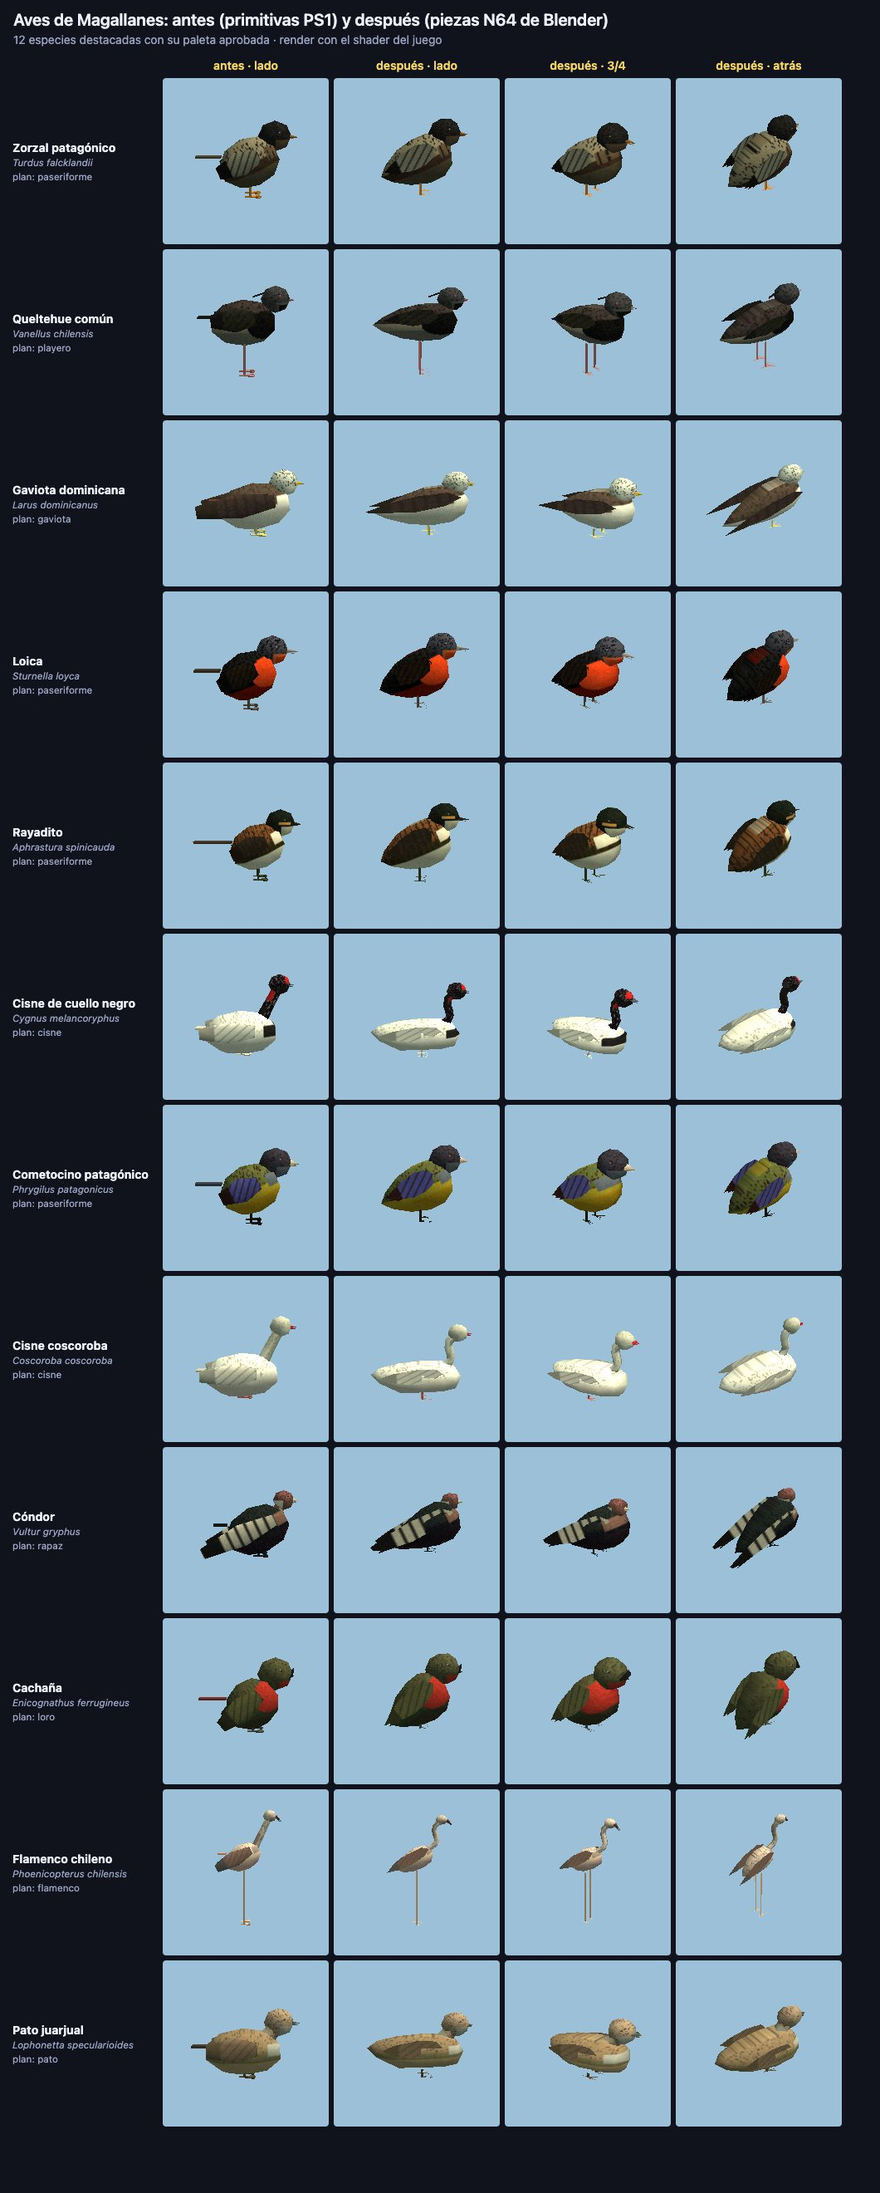
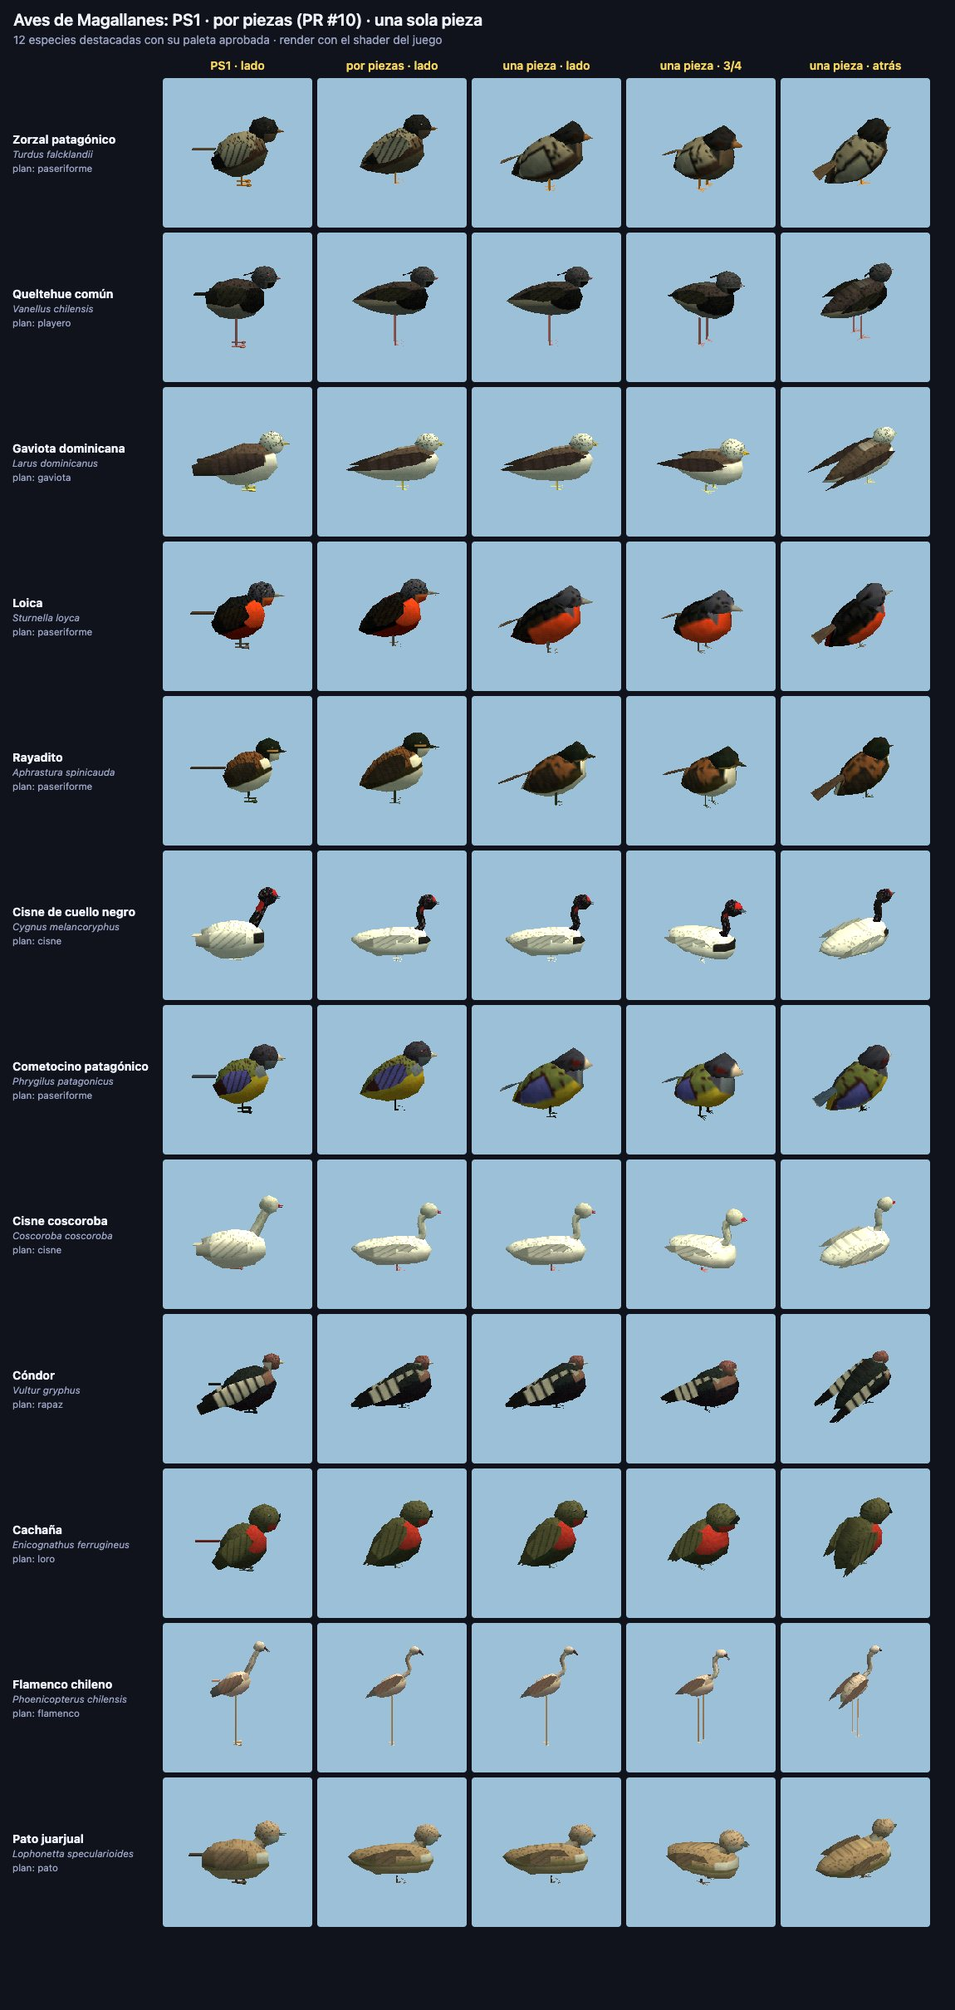
Aves de una sola pieza: prototipo para paseriforme y cola alta
- js/bird1.js: una malla continua por especie (loft de 6 lados cola → cuerpo → cuello → cabeza → pico, 168 tris) con una textura de 64×32 pintada encima (ojo, máscara, garganta, ala plegada, patrones y acentos)
- Misma interfaz que el ave por piezas: cabeza, cola e inflado deforman solo sus vértices (mezcla en el cuello); alas de vuelo visibles solo al aletear; contorno de hover sobre la misma malla
- bird.js lo usa para paseriforme y cola_alta (setOnePiece para comparar); el resto de los planes sigue por piezas
- Registro: columna 'una pieza' junto a PS1 y por piezas

diff --git a/js/bird1.js b/js/bird1.js
@@ -1,0 +1,262 @@
+// Ave de una sola pieza (estilo N64, como Poroto): una malla continua por especie, de la punta de la cola
+// al pico (cola → cuerpo → cuello → cabeza → pico), con secciones de 6 lados y UNA textura pintada encima
+// (ojo, máscara, garganta, ala plegada, patrones). Ver blender/NOTAS.md, "Aves: de ensamble a una sola pieza".
+//
+// Mantiene la interfaz de buildBird (js/bird.js) para que aviary.js no cambie: head, tail y torso siguen
+// siendo objetos que el comportamiento anima, pero en vez de mover esferas deforman los vértices de su zona
+// (con mezcla en el cuello). Las alas de vuelo solo se ven al aletear; quieta, el ala plegada está pintada.
+/* global THREE */
+import { mat, makeTex, makeVary, mulberry32, texPlain, steady } from './ps1.js';
+
+const TAU = Math.PI * 2;
+const SIDES = 6;
+const plain = texPlain();
+
+// Perfil del cuerpo a lo largo de su eje (s = −1.25 cola … 0.85 pecho alto): fracción del radio.
+const BODY_PROFILE = [[-1.25, 0.24], [-1.0, 0.48], [-0.55, 0.86], [0.0, 1.0], [0.45, 0.95], [0.82, 0.72]];
+
+/** Anillo de SIDES vértices perpendicular a `axis` (en el plano x-y), alto h y ancho w. k=0 = vientre. */
+function ring(center, axis, w, h) {
+  const z = new THREE.Vector3(0, 0, 1);
+  const up = new THREE.Vector3().crossVectors(z, axis).normalize();
+  const pts = [];
+  for (let k = 0; k <= SIDES; k++) { // el último repite el primero (costura de la textura)
+    const a = TAU * k / SIDES;
+    pts.push(center.clone().addScaledVector(up, -Math.cos(a) * h).addScaledVector(z, Math.sin(a) * w));
+  }
+  return pts;
+}
+
+/**
+ * Esqueleto de anillos de la especie en el espacio de bodyPivot (mismo espacio que el ave por piezas).
+ * Devuelve [{c, w, h, zone, wHead, wTail}] + datos de pivotes.
+ */
+function skeleton(pl, f, hs, headBase, bl, br) {
+  const B = pl.body, t = pl.tilt;
+  const C = new THREE.Vector3(0.05, 0.72, 0);
+  const d = new THREE.Vector3(Math.cos(t), Math.sin(t), 0);
+  const R = [];
+  // cola (plana, se abre hacia la punta): pivote donde estaba el grupo de la cola
+  const tailPivot = new THREE.Vector3(...(pl.tailPos || [-1.0 * B[0] / 1.15, 0.9]), 0);
+  const tr = pl.tail, tdir = new THREE.Vector3(-Math.cos(tr), -Math.sin(tr), 0);
+  const L = 1.05 * f.tail;
+  const tw = pl === undefined ? 1 : 1;
+  R.push({ c: tailPivot.clone().addScaledVector(tdir, L), w: 0.34 * tw, h: 0.025, zone: 'cola', wTail: 1, end: true });
+  R.push({ c: tailPivot.clone().addScaledVector(tdir, L * 0.5), w: 0.27 * tw, h: 0.04, zone: 'cola', wTail: 1 });
+  R.push({ c: tailPivot.clone().addScaledVector(tdir, 0.05), w: 0.2, h: 0.08, zone: 'cola', wTail: 0.7 });
+  // cuerpo
+  for (const [s, k] of BODY_PROFILE) {
+    R.push({ c: C.clone().addScaledVector(d, s * B[0]), w: k * B[2], h: k * B[1], zone: 'cuerpo' });
+  }
+  // cuello (mezcla) y cabeza: la cabeza mira al frente (+x)
+  const neckFrom = C.clone().addScaledVector(d, 0.85 * B[0]);
+  const nl = pl.neckLen ?? 0;
+  const nNeck = nl > 0.3 ? 3 : 1;
+  for (let i = 1; i <= nNeck; i++) {
+    const k = i / (nNeck + 1);
+    R.push({ c: neckFrom.clone().lerp(headBase, k), w: hs * (0.72 - 0.1 * (nNeck > 1 ? 1 - k : 0)), h: hs * 0.78, zone: 'cuello', wHead: 0.25 + 0.5 * k });
+  }
+  const hx = new THREE.Vector3(1, 0, 0);
+  R.push({ c: headBase.clone().addScaledVector(hx, -0.6 * hs).add(new THREE.Vector3(0, 0.02, 0)), w: hs * 0.82, h: hs * 0.86, zone: 'cabeza', wHead: 1 });
+  R.push({ c: headBase.clone(), w: hs * 0.95, h: hs * 1.0, zone: 'cabeza', wHead: 1, eye: true });
+  R.push({ c: headBase.clone().add(new THREE.Vector3(0.52 * hs, -0.03, 0)), w: hs * 0.72, h: hs * 0.74, zone: 'cabeza', wHead: 1 });
+  // pico: base y punta (la punta es un vértice)
+  const beakBase = headBase.clone().add(new THREE.Vector3(0.88 * hs, -0.06, 0));
+  R.push({ c: beakBase, w: br * 1.05, h: br * 1.15, zone: 'pico', wHead: 1 });
+  const tip = beakBase.clone().add(new THREE.Vector3(bl, -0.04 - (pl.bentBill ? bl * 0.6 : 0), 0));
+  return { R, tip, tailPivot, C, beakBase };
+}
+
+// ---------- textura de la especie: u = a lo largo del ave (cola → pico), v = alrededor (vientre → lomo → vientre) ----------
+function paintSpecies(sp, P, layout) {
+  const R = mulberry32(2000 + sp.id);
+  const vary = makeVary(R);
+  const pat = sp.palette?.pattern || {};
+  const aw = sp.palette?.accentWhere, acc = P.accent;
+  const W = 64, H = 32;
+  const { uTailEnd, uBodyEnd, uNeckEnd, uEye, uBeak, uHeadFront } = layout;
+  const patt = (zone, c, x, y) => {
+    const p = pat[zone];
+    if (p === 'barred') return (x % 3 === 0) ? P.back_dark : vary(c, 9);
+    if (p === 'streaked') return (y % 4 === 0 && R() < 0.8) ? P.back_dark : vary(c, 9);
+    if (p === 'spotted') return (R() < 0.07) ? [30, 26, 28] : vary(c, 8);
+    return vary(c, 7);
+  };
+  return makeTex(W, H, (x, yy) => {
+    const u = (x + 0.5) / W, v = (yy + 0.5) / H;
+    const side = Math.abs(v - 0.5) * 2; // 0 = lomo, 1 = vientre
+    const up = 1 - side;                 // 1 = lomo
+    if (u > uBeak) return P.beak;
+    if (u < uTailEnd) { // cola: lomo con color de cola; abajo más oscuro
+      if (aw === 'subcaudales' && acc && side > 0.6) return vary(acc, 6);
+      const c = patt('tail', aw === 'ala y cola' && acc ? acc : P.tail, x, yy);
+      return side > 0.6 ? c.map(k => k * 0.8) : c;
+    }
+    if (u > uNeckEnd) { // cabeza
+      const ex = (u - uEye) * W, ey = (Math.min(Math.abs(v - 0.25), Math.abs(v - 0.75))) * H;
+      if (Math.abs(ex) < 1.2 && ey < 1.3) return ex > 0.2 && Math.abs(v - 0.25) < 0.5 / H + 0.02 ? [210, 210, 210] : P.eye;
+      if (acc) {
+        if (aw === 'bigote' && ey > 1.5 && ey < 3 && side > 0.4 && u > uEye - 0.04) return vary(acc, 5);
+        if (aw === 'frente' && up > 0.7 && u > uHeadFront - 0.02) return vary(acc, 4);
+        if (aw === 'gorguera' && side > 0.7) return (x + yy) % 3 === 0 ? [220, 230, 255] : vary(acc, 8);
+        if (aw === 'collar' && u < uEye - 0.03 && side > 0.3) return vary(acc, 6);
+      }
+      if (side > 0.72) return vary(P.throat, 5);            // garganta
+      if (pat.head === 'striped' && up > 0.6 && x % 3 === 0) return vary(P.back_dark, 5);
+      return vary(R() < 0.12 ? P.back_dark : P.head, 6);
+    }
+    if (u > uBodyEnd) { // cuello: transición de cabeza (arriba) a garganta/pecho (abajo)
+      if (aw === 'collar' && acc) return vary(acc, 6);
+      if (side > 0.65) return vary(aw === 'pecho' && acc ? acc : P.throat, 6);
+      return vary(P.head, 6);
+    }
+    // cuerpo
+    const bu = (u - uTailEnd) / (uBodyEnd - uTailEnd); // 0 = cola … 1 = pecho
+    if (acc && aw === 'pecho' && side > 0.45 && bu > 0.45) return vary(acc, 7);
+    // ala plegada sobre el costado alto (de la mitad del cuerpo hacia atrás; primarias oscuras atrás)
+    const wingBand = side > 0.18 && side < 0.62;
+    if (wingBand && bu > 0.08 && bu < 0.72) {
+      const wc = aw === 'ala y cola' && acc ? acc : P.wing;
+      if (bu < 0.26) return vary(P.back_dark, 5);                         // primarias
+      if (Math.abs(side - 0.18) < 0.05 || Math.abs(bu - 0.72) < 0.03) return vary(P.back_dark, 5); // borde
+      return patt('wing', wc, x, yy);
+    }
+    if (side > 0.78) return patt('belly', P.belly, x, yy);
+    if (side > 0.55) return patt('flank', P.flank, x, yy);
+    return R() < 0.12 ? vary(P.back_dark, 5) : patt('back', P.back, x, yy);
+  });
+}
+
+/**
+ * Construye el ave de una pieza. `ctx` trae lo que bird.js ya calculó (plan, factores AVONET, paleta y
+ * geometrías de patas/ala) para no duplicar lógica.
+ */
+export function buildBirdOnePiece(sp, plan, ctx) {
+  const { pl, f, hs, headBase, bl, br, legLen, P, wingGeo, wingLen, footGeo, tarsusGeo } = ctx;
+  const { R, tip, tailPivot, C } = skeleton(pl, f, hs, headBase, bl, br);
+
+  // ---- malla: anillos + punta del pico; u por largo acumulado ----
+  const rings = R.map((r, i) => {
+    const prev = R[Math.max(0, i - 1)].c, next = i < R.length - 1 ? R[i + 1].c : tip;
+    const axis = next.clone().sub(prev).normalize();
+    return { ...r, pts: ring(r.c, axis, r.w, r.h) };
+  });
+  const lens = [0];
+  for (let i = 1; i < rings.length; i++) lens.push(lens[i - 1] + rings[i].c.distanceTo(rings[i - 1].c));
+  const total = lens[lens.length - 1] + rings[rings.length - 1].c.distanceTo(tip);
+  const uOf = i => lens[i] / total;
+  const idx = z => rings.findIndex(r => r.zone === z);
+  const lastIdx = z => rings.map(r => r.zone).lastIndexOf(z);
+  const layout = {
+    uTailEnd: uOf(lastIdx('cola')) + 0.01, uBodyEnd: uOf(lastIdx('cuerpo')), uNeckEnd: uOf(Math.max(lastIdx('cuello'), lastIdx('cuerpo'))) + 0.005,
+    uEye: uOf(rings.findIndex(r => r.eye)) + 0.025, uHeadFront: uOf(idx('pico') - 1), uBeak: uOf(idx('pico')) - 0.004,
+  };
+  const pos = [], uv = [], wH = [], wT = [], index = [];
+  rings.forEach((r, i) => r.pts.forEach((p, k) => {
+    pos.push(p.x, p.y, p.z); uv.push(uOf(i), k / SIDES); wH.push(r.wHead || 0); wT.push(r.wTail || 0);
+  }));
+  const N = SIDES + 1;
+  for (let i = 0; i < rings.length - 1; i++) for (let k = 0; k < SIDES; k++) {
+    const a = i * N + k, b = i * N + k + 1, c = (i + 1) * N + k + 1, d = (i + 1) * N + k;
+    index.push(a, d, b, b, d, c);
+  }
+  // punta del pico
+  const tipI = pos.length / 3; pos.push(tip.x, tip.y, tip.z); uv.push(1, 0.5); wH.push(1); wT.push(0);
+  const li = (rings.length - 1) * N;
+  for (let k = 0; k < SIDES; k++) index.push(li + k, tipI, li + k + 1);
+  // tapa de la punta de la cola
+  const tc = rings[0].c; const tcI = pos.length / 3; pos.push(tc.x, tc.y, tc.z); uv.push(0, 0.5); wH.push(0); wT.push(1);
+  for (let k = 0; k < SIDES; k++) index.push(k + 1, tcI, k);
+
+  const geo = new THREE.BufferGeometry();
+  geo.setAttribute('position', new THREE.Float32BufferAttribute(pos, 3));
+  geo.setAttribute('uv', new THREE.Float32BufferAttribute(uv, 2));
+  geo.setIndex(index);
+  geo.computeVertexNormals();
+  // costura de la textura: misma normal a ambos lados (vértice k=0 y k=SIDES de cada anillo)
+  const nrm = geo.attributes.normal;
+  for (let i = 0; i < rings.length; i++) {
+    const a = i * N, b = i * N + SIDES;
+    const n = new THREE.Vector3(nrm.getX(a) + nrm.getX(b), nrm.getY(a) + nrm.getY(b), nrm.getZ(a) + nrm.getZ(b)).normalize();
+    nrm.setXYZ(a, n.x, n.y, n.z); nrm.setXYZ(b, n.x, n.y, n.z);
+  }
+  const base = Float32Array.from(pos), baseN = Float32Array.from(nrm.array);
+
+  // ---- jerarquía con la misma interfaz que el ave por piezas ----
+  const bird = new THREE.Group();
+  const bodyPivot = new THREE.Group(); bodyPivot.position.y = legLen - 0.05; bird.add(bodyPivot);
+  const torso = new THREE.Group(); bodyPivot.add(torso);              // su escala = "inflarse"
+  const head = new THREE.Group(); head.position.copy(headBase); bodyPivot.add(head);
+  const tail = new THREE.Group(); tail.position.copy(tailPivot); tail.rotation.z = pl.tail; bodyPivot.add(tail);
+  const tex = paintSpecies(sp, P, layout);
+  const body = new THREE.Mesh(geo, mat(tex));
+  bodyPivot.add(body);
+  const meshes = [body];
+
+  // mandíbula inferior (chica, para cantar), bajo el pico
+  const mBeak = mat(plain, { tint: (P.beak[0] << 16) | (P.beak[1] << 8) | P.beak[2] });
+  const lower = new THREE.Mesh(new THREE.ConeGeometry(br * 0.7, bl * 0.8, 3).rotateZ(-Math.PI / 2).translate(bl * 0.4, 0, 0).scale(1, 0.4, 1), mBeak);
+  lower.position.set(0.88 * hs, -0.1, 0); lower.rotation.z = -0.15; head.add(lower); meshes.push(lower);
+  const upper = new THREE.Group(); upper.rotation.z = 0; head.add(upper); // el pico superior es parte de la malla
+
+  // alas de vuelo: solo visibles al aletear
+  const mWing = mat(ctx.wingTex, { twoSided: true });
+  const wings = [];
+  for (const s of [-1, 1]) {
+    const w = new THREE.Group(); w.position.copy(C).add(new THREE.Vector3(0.05, 0.25, s * pl.body[2] * 0.85)); bodyPivot.add(w);
+    const m = new THREE.Mesh(s > 0 ? wingGeo : wingGeo.clone().scale(1, 1, -1), mWing); m.visible = false; w.add(m);
+    w.userData.side = s; w.userData.mesh = m; wings.push(w);
+  }
+  // patas (como en el ave por piezas)
+  const mLeg = mat(plain, { tint: (P.legs[0] << 16) | (P.legs[1] << 8) | P.legs[2], twoSided: true });
+  const legs = [];
+  for (const s of [-1, 1]) {
+    const leg = new THREE.Group(); leg.position.set(0.06, legLen, s * 0.27); bird.add(leg);
+    leg.add(new THREE.Mesh(tarsusGeo, mLeg));
+    const foot = new THREE.Mesh(footGeo, mLeg); foot.position.y = -legLen + 0.02; leg.add(foot);
+    legs.push(leg);
+  }
+
+  // ---- deformación por cuadro: cabeza, cola e "inflado" mueven solo sus vértices ----
+  const p = new THREE.Vector3(), q = new THREE.Vector3(), mH = new THREE.Matrix4(), mT = new THREE.Matrix4(), mTi = new THREE.Matrix4();
+  const restTail = new THREE.Matrix4().makeRotationZ(pl.tail);
+  const nq = new THREE.Vector3();
+  let lastKey = '';
+  body.onBeforeRender = () => {
+    const key = `${head.rotation.y.toFixed(3)},${head.rotation.z.toFixed(3)},${tail.rotation.z.toFixed(3)},${torso.scale.x.toFixed(3)}`;
+    for (const w of wings) w.userData.mesh.visible = Math.abs(w.rotation.x) > 0.05;
+    if (key === lastKey) return;
+    lastKey = key;
+    head.updateMatrix(); tail.updateMatrix();
+    // cabeza: rotación alrededor de headBase; cola: rotación respecto de su ángulo de reposo
+    mH.copy(head.matrix).multiply(new THREE.Matrix4().makeTranslation(-headBase.x, -headBase.y, -headBase.z));
+    mT.copy(tail.matrix).multiply(mTi.copy(restTail).invert()).multiply(new THREE.Matrix4().makeTranslation(-tailPivot.x, -tailPivot.y, -tailPivot.z));
+    const puff = torso.scale.x;
+    const arr = geo.attributes.position.array, narr = geo.attributes.normal.array;
+    for (let i = 0; i < wH.length; i++) {
+      p.set(base[i * 3], base[i * 3 + 1], base[i * 3 + 2]);
+      const h = wH[i], t = wT[i], b = Math.max(0, 1 - h - t);
+      if (b > 0 && puff !== 1) p.sub(C).multiplyScalar(1 + (puff - 1) * b).add(C);
+      if (h > 0) { q.copy(p).applyMatrix4(mH); p.lerp(q, h); }
+      if (t > 0) { q.copy(p).applyMatrix4(mT); p.lerp(q, t); }
+      arr[i * 3] = p.x; arr[i * 3 + 1] = p.y; arr[i * 3 + 2] = p.z;
+      nq.set(baseN[i * 3], baseN[i * 3 + 1], baseN[i * 3 + 2]);
+      if (h > 0.5) nq.transformDirection(mH);
+      narr[i * 3] = nq.x; narr[i * 3 + 1] = nq.y; narr[i * 3 + 2] = nq.z;
+    }
+    geo.attributes.position.needsUpdate = true; geo.attributes.normal.needsUpdate = true;
+  };
+
+  // contorno de hover: casco invertido alrededor del centro del cuerpo
+  const outlineMat = new THREE.MeshBasicMaterial({ color: 0xffffff, side: THREE.BackSide });
+  const outline = new THREE.Mesh(geo, outlineMat);
+  outline.scale.setScalar(1.12); outline.position.copy(C).multiplyScalar(-0.12); outline.visible = false; bodyPivot.add(outline);
+
+  steady(bird);
+  return {
+    group: bird, bodyPivot, torso, head, headBase, tail, tailRest: pl.tail, wings, legs, upper, lower, plan,
+    beakRest: [0, lower.rotation.z], onePiece: true, tris: index.length / 3,
+    setOutline(color) { if (color) outlineMat.color.set(color); outline.visible = !!color; },
+    height: legLen + 2.0,
+  };
+}

diff --git a/docs/registro/aves.html b/docs/registro/aves.html
@@ -15,7 +15,7 @@
   td.n { width: 170px; padding-right: 8px; }
   td.n b { display: block; }
   td.n small { color: #9aa3c4; }
-  canvas { display: block; width: 200px; height: 200px; image-rendering: pixelated; border-radius: 4px; }
+  canvas { display: block; width: 180px; height: 180px; image-rendering: pixelated; border-radius: 4px; }
 </style>
 <script src="https://cdnjs.cloudflare.com/ajax/libs/three.js/r128/three.min.js"></script>
 <script src="https://cdn.jsdelivr.net/npm/three@0.128.0/examples/js/loaders/GLTFLoader.js"></script>
@@ -23,12 +23,12 @@
 <body>
 <h1 id="t"></h1>
 <p id="sub"></p>
-<table><thead><tr><th></th><th>antes · lado</th><th>después · lado</th><th>después · 3/4</th><th>después · atrás</th></tr></thead><tbody id="rows"></tbody></table>
+<table><thead><tr><th></th><th>PS1 · lado</th><th>por piezas · lado</th><th>una pieza · lado</th><th>una pieza · 3/4</th><th>una pieza · atrás</th></tr></thead><tbody id="rows"></tbody></table>
 <script type="module">
 import { shared } from '../../js/ps1.js';
 import { featuredIn } from '../../js/data.js';
 import { loadKit } from '../../js/kit.js';
-import { buildBird, planFor } from '../../js/bird.js';
+import { buildBird, planFor, setOnePiece } from '../../js/bird.js';
 import { buildBird as buildBirdAntes, planFor as planForAntes } from './antes/bird_ps1.js';
 
 const REGION_NAME = { 'CL-RM': 'Metropolitana', 'CL-VS': 'Valparaíso', 'CL-MA': 'Magallanes' };
@@ -45,7 +45,7 @@ const ids = new Set();
 for (const region of regions) { featuredIn(index, region); Object.keys(region.featured || {}).forEach(id => ids.add(+id)); }
 const species = [...ids].map(id => index.byId.get(id)).filter(s => s?.palette && (!plans || plans.includes(planFor(s)))).slice(0, max);
 
-document.getElementById('t').textContent = `${plans ? 'Planes ' + plans.join(', ') : 'Aves de ' + codes.map(c => REGION_NAME[c] || c).join(', ')}: antes (primitivas PS1) y después (piezas N64 de Blender)`;
+document.getElementById('t').textContent = `${plans ? 'Planes ' + plans.join(', ') : 'Aves de ' + codes.map(c => REGION_NAME[c] || c).join(', ')}: PS1 · por piezas (PR #10) · una sola pieza`;
 document.getElementById('sub').textContent = `${species.length} especies destacadas con su paleta aprobada · render con el shader del juego`;
 
 const S = 200;
@@ -73,7 +73,10 @@ for (const sp of species) {
   const tr = document.createElement('tr');
   const plan = planFor(sp);
   tr.innerHTML = `<td class="n"><b>${sp.comName}</b><small><i>${sp.sciName}</i><br>plan: ${plan}</small></td>`;
-  const cells = [shot(buildBirdAntes, sp, planForAntes(sp), 'lado', 500000), shot(buildBird, sp, plan, 'lado', 0),
+  setOnePiece(false);
+  const piezas = shot(buildBird, sp, plan, 'lado', 700000);
+  setOnePiece(true);
+  const cells = [shot(buildBirdAntes, sp, planForAntes(sp), 'lado', 500000), piezas, shot(buildBird, sp, plan, 'lado', 0),
     shot(buildBird, sp, plan, 'tres', 0), shot(buildBird, sp, plan, 'atras', 0)];
   for (const cv of cells) { const td = document.createElement('td'); td.appendChild(cv); tr.appendChild(td); }
   tbody.appendChild(tr);

diff --git a/js/bird.js b/js/bird.js
@@ -6,6 +6,13 @@
 /* global THREE */
 import { mat, makeTex, makeVary, mulberry32, sideUV, texPlain, steady } from './ps1.js';
 import { KIT } from './kit.js';
+import { buildBirdOnePiece } from './bird1.js';
+
+// Planes que ya se construyen como una sola pieza (js/bird1.js). setOnePiece(false) vuelve al ave por piezas
+// (lo usa docs/registro/aves.html para comparar).
+const ONE_PIECE = new Set(['paseriforme', 'cola_alta']);
+let onePieceOn = true;
+export function setOnePiece(on) { onePieceOn = on; }
 
 // Piezas N64 modeladas en Blender (blender/aves_build.py → models/kit/ave_partes.glb). Están en el mismo
 // espacio que las primitivas de antes; si no cargaron, se usan las primitivas.
@@ -163,6 +170,19 @@ export function buildBird(sp, plan = 'paseriforme') {
   const fTail = clamp((pr[3] ?? CHUCAO.tail) / CHUCAO.tail, 0.4, 1.4);
   const hwi = pr[4] ?? CHUCAO.hwi;
   const T = speciesTextures(sp);
+  if (onePieceOn && ONE_PIECE.has(plan)) {
+    const legLen1 = 0.85 * fTarsus, hs1 = pl.head, nl1 = pl.neckLen ?? 0;
+    const headBase1 = new THREE.Vector3(0.98 - pl.tilt * 0.25 + pl.neck + nl1 * 0.35, 1.42 + pl.tilt * 0.45 + pl.neck * 0.5 + nl1 * 0.9, 0);
+    const bl1 = 0.4 * fBeak * (plan === 'picaflor' ? 1.6 : 1);
+    const br1 = 0.12 * clamp(fDepth * (fBeak > 1.4 ? 0.7 : 1), 0.3, 1.8);
+    const wingLen1 = 0.72 * (1 + hwi * 0.9) * (pl.wing ?? 1);
+    const wingGeo1 = sideUV(part('ala', () => new THREE.SphereGeometry(1, 5, 3).scale(1, 0.4, 0.1).translate(-0.35, 0, 0), plan).scale(wingLen1, 1, 1));
+    return buildBirdOnePiece(sp, plan, {
+      pl, f: { tail: fTail }, hs: hs1, headBase: headBase1, bl: bl1, br: br1, legLen: legLen1,
+      P: { ...GRAY, ...(sp.palette || {}) }, wingTex: T.wing, wingGeo: wingGeo1, wingLen: wingLen1, footGeo,
+      tarsusGeo: new THREE.CylinderGeometry(0.055, 0.045, legLen1, 3, 1, true).translate(0, -legLen1 / 2, 0),
+    });
+  }
   const meshes = [];
   const add = (parent, geo, m) => { const mesh = new THREE.Mesh(geo, m); parent.add(mesh); meshes.push(mesh); return mesh; };
 

diff --git a/docs/registro_modelos.md b/docs/registro_modelos.md
@@ -100,6 +100,19 @@ frente, ala plana con las primarias en punta y cola en abanico, en el mismo espa
 ~220 triángulos por ave (antes 188). Hay piezas propias para paloma, gaviota, pingüino, flamenco, pato, pelícano, rapaz, picaflor y
 playero (abajo); loro, carpintero, codorniz y ñandú siguen con las del ave base.
 
+### Una sola pieza (versión vigente para paseriformes)
+
+Las piezas de Blender (arriba) no cambiaron la construcción: seguía siendo un **ensamble** (cabeza = otra
+esfera encajada, pico = cono pegado, alas y cola = placas que sobresalen, 5–6 texturas). Las referencias
+(Poly Pizza, Half-Life 2) son **una malla continua con una textura**, igual que Poroto N64. Ahora cada ave
+de los planes paseriforme y cola alta es **una sola malla** generada en `js/bird1.js`: loft de 6 lados de
+la punta de la cola al pico (cola → cuerpo → cuello → cabeza → pico), **una textura de 64×32** pintada
+encima (ojo, máscara, garganta, ala plegada, patrones y acentos de la paleta) y **168 triángulos**. La
+cabeza y la cola se animan deformando solo sus vértices (mezcla en el cuello); las alas de vuelo aparecen
+solo al aletear. Columnas: PS1 · por piezas (PR #10) · una pieza.
+
+![Paseriformes: PS1, por piezas y una sola pieza](registro/img/aves_una_pieza_paseriformes.jpg)
+
 ### Planes propios: paloma y gaviota
 
 Con las referencias de Half-Life 2 (paloma de 540 triángulos y gaviota de 470) se hicieron juegos de
